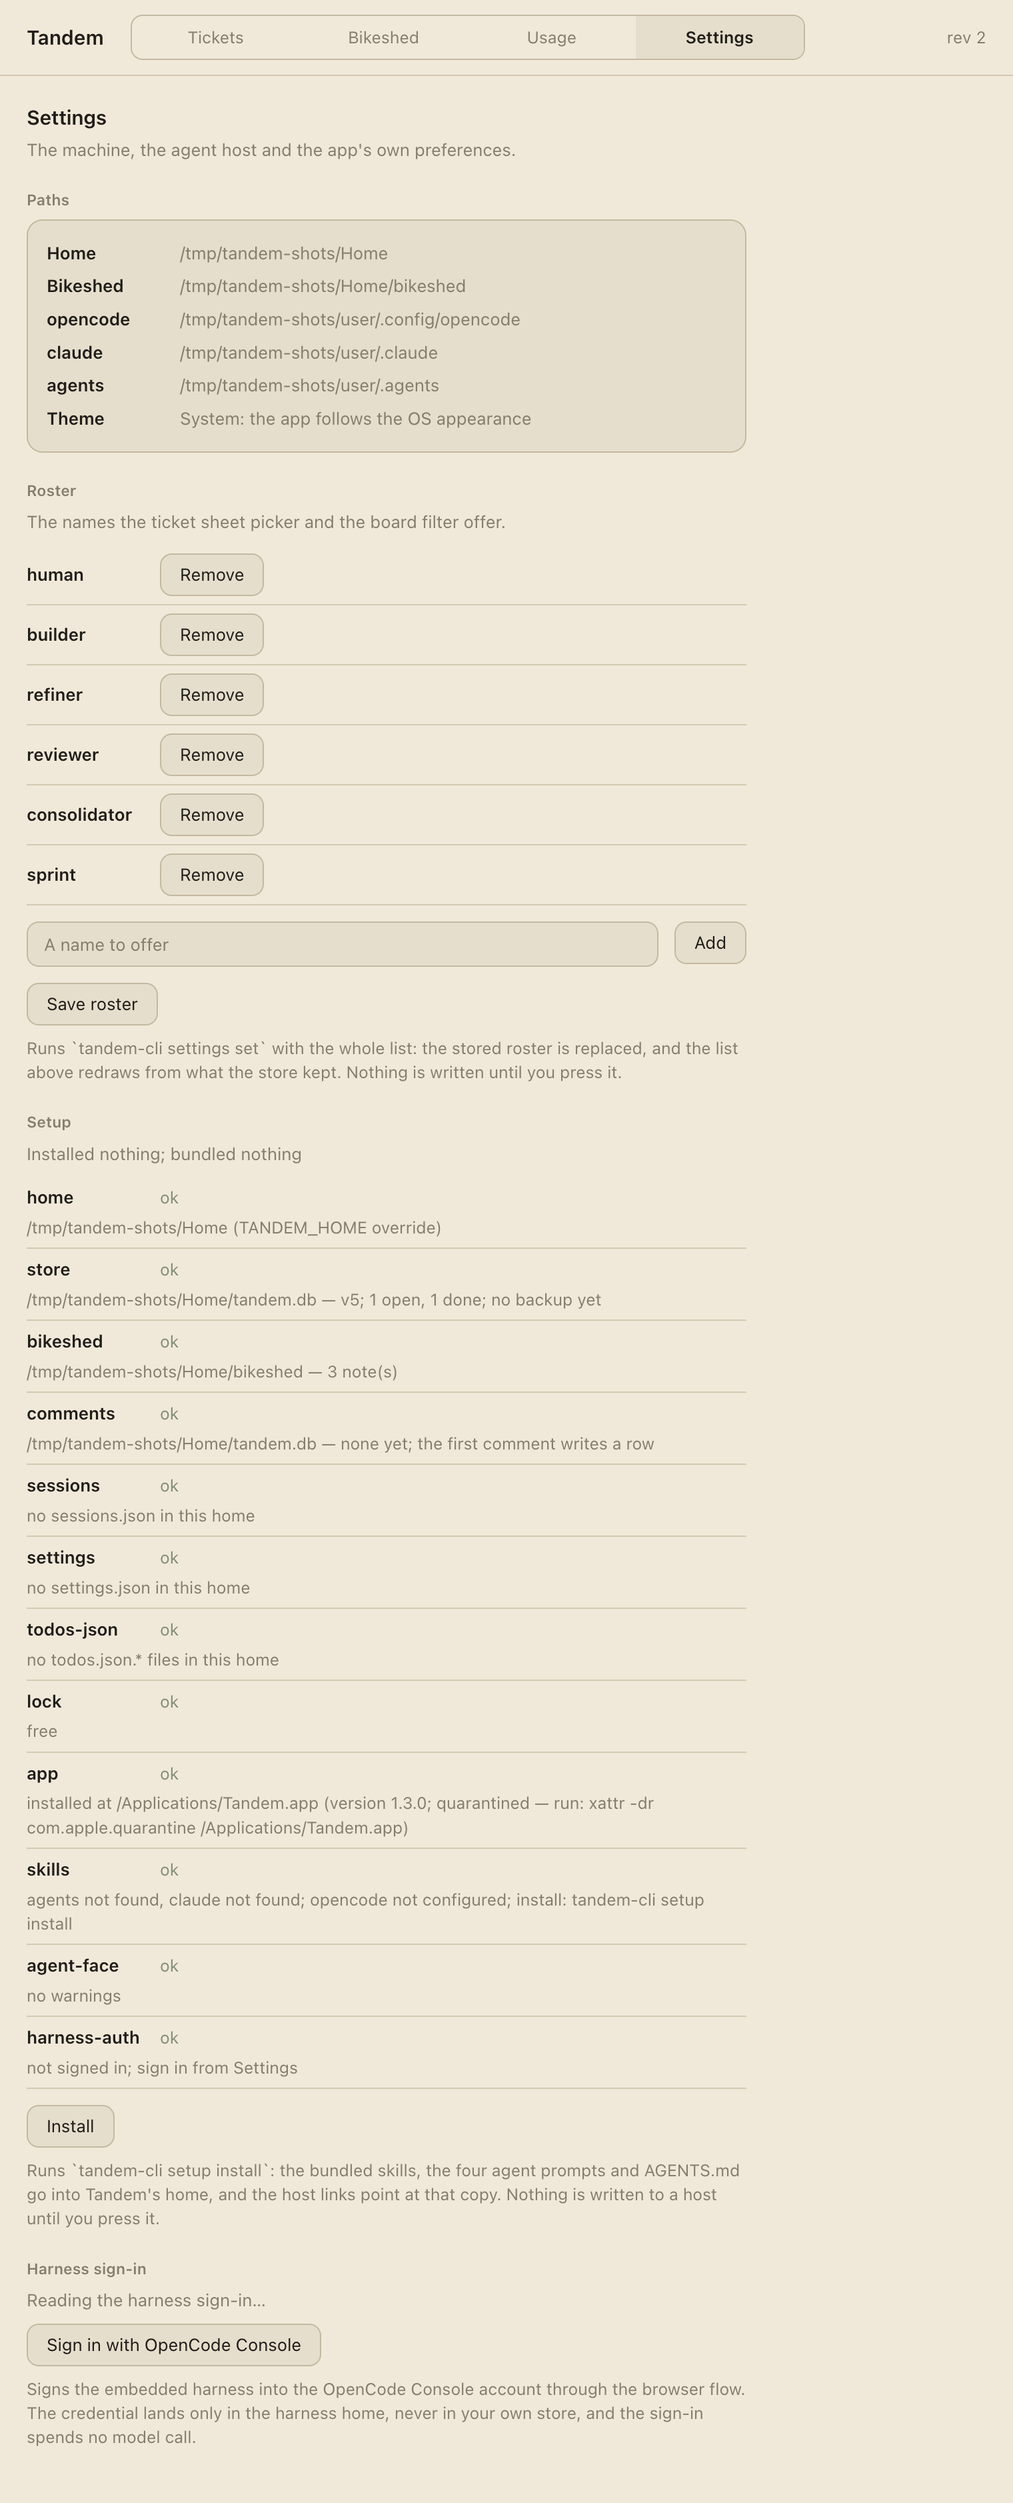
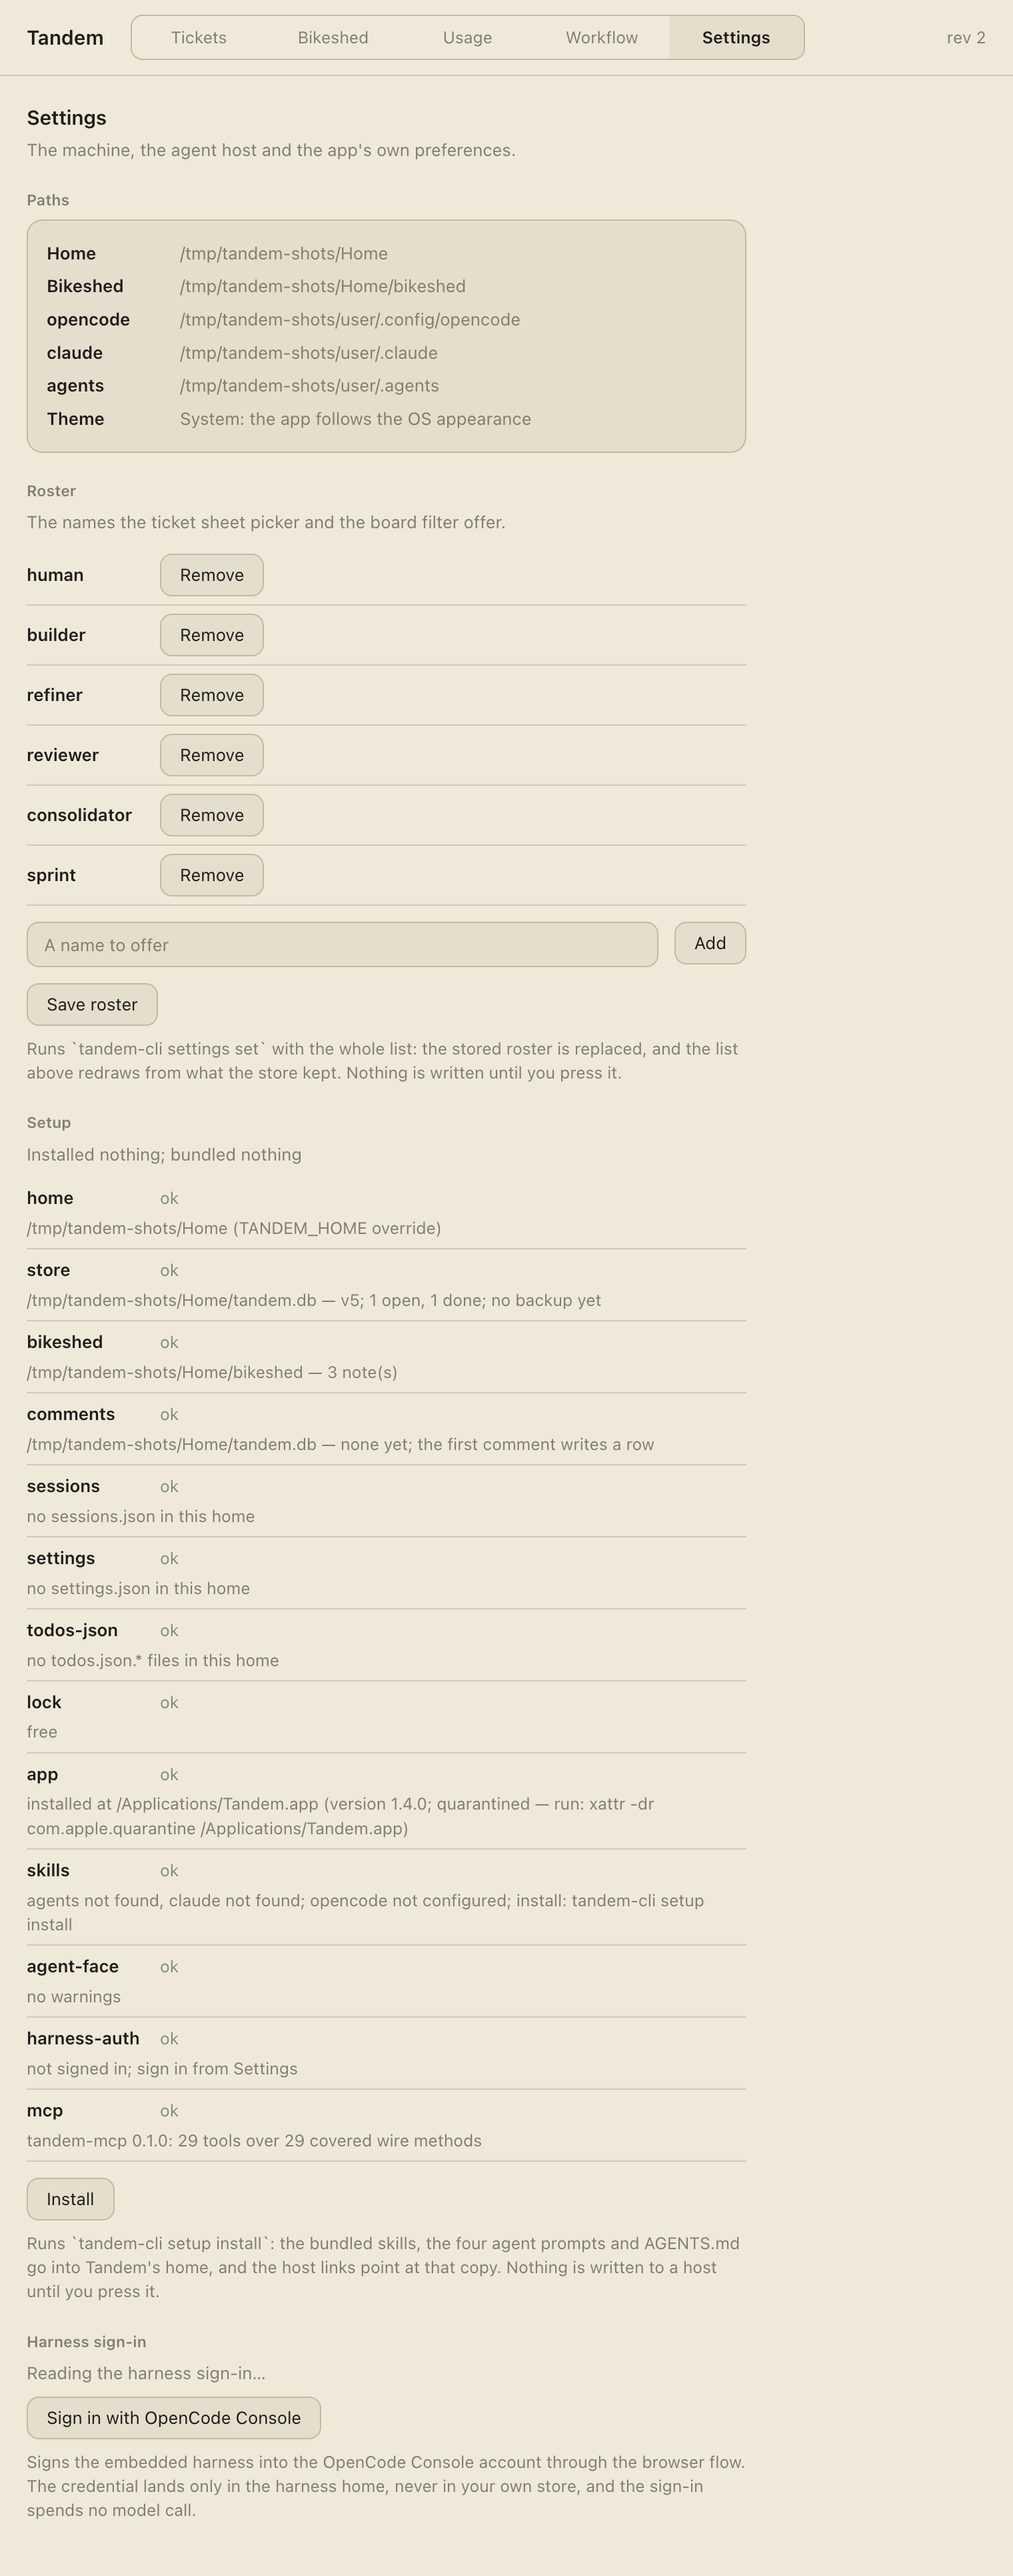
TAN-274: thirteen doctor checks in the goldens and the settings shot

diff --git a/app/tests/shots/settings.shots.ts b/app/tests/shots/settings.shots.ts
@@ -10,7 +10,7 @@ import { computed, token } from '../../shots/tokens'
 /**
  * The Settings face a human reads: the machine's paths (the seeded home and
  * the seeded user home's three hosts), the one theme rule, the setup
- * report's twelve checks with their state, and the harness sign-in section.
+ * report's thirteen checks with their state, and the harness sign-in section.
  *
  * The paths are the seed's own, at the one fixed scratch root, so the picture
  * is the same in any checkout. What the rule pins is that they are the seed's
@@ -54,7 +54,7 @@ test('the settings face, over the seeded homes', async ({ app, window }) => {
   const setup = window.locator('.settings__section', {
     has: window.locator('.settings__heading', { hasText: 'Setup' }),
   })
-  await expect(setup.locator('.settings__check')).toHaveCount(12)
+  await expect(setup.locator('.settings__check')).toHaveCount(13)
   await expect(setup.locator('.settings__action')).toHaveText(/^(Install|Repair)$/)
 
   await capture(app, window, scene('settings'))
